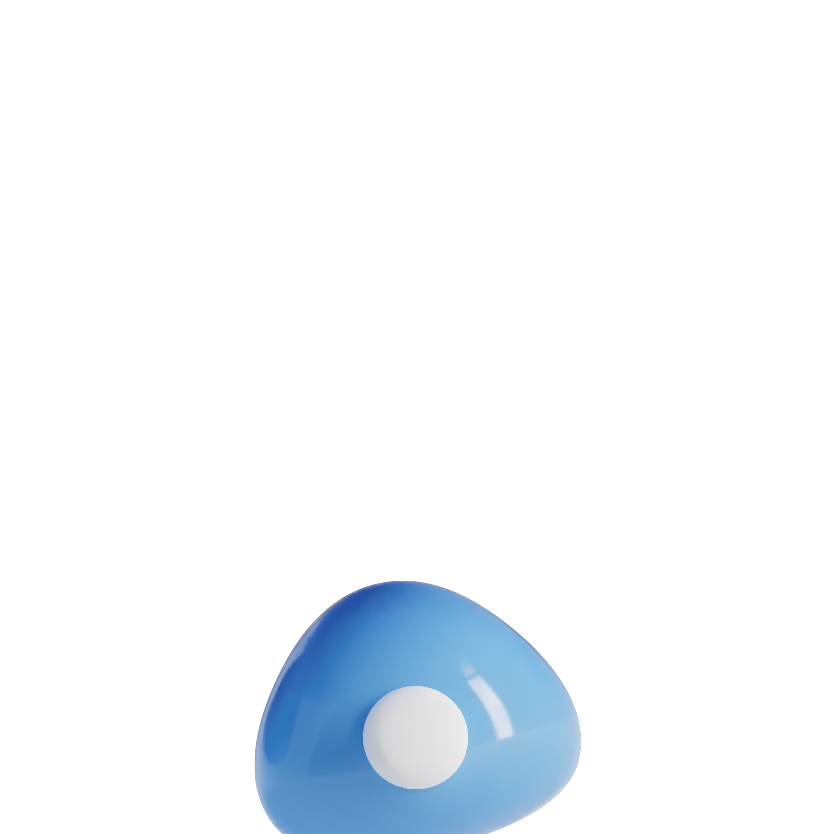
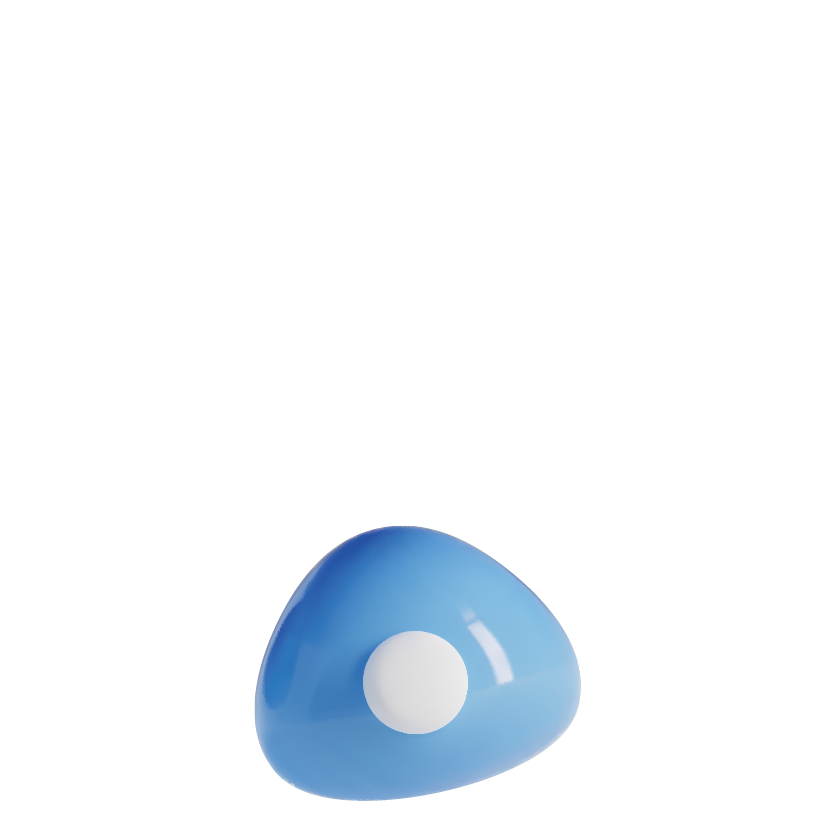
feat(mascot): shift hat 50px up and body/hands 50px down without altering source images

Changed region(s): [[0.2806, 0.6235, 0.717, 1.0]]

diff --git a/src/Components/AI/SheypoorMascot.jsx b/src/Components/AI/SheypoorMascot.jsx
@@ -217,12 +217,12 @@ export default function SheypoorMascot({ onClick, isOpen, isProcessing }) {
         )}
 
         {/* Mascot Body Canvas Container (84px width, maintaining aspect ratio) */}
-        <div className="relative w-20 h-20 tablet:w-22 tablet:h-22 select-none">
-          {/* Base Layer: Body */}
+        <div className="relative w-20 h-20 tablet:w-22 tablet:h-22 select-none overflow-visible">
+          {/* Base Layer: Body (shifted 50px / 6% down) */}
           <motion.img
             src="/AI-MASCAT/body.png"
             alt="Body"
-            className="absolute inset-0 w-full h-full object-contain pointer-events-none drop-shadow-md origin-[50%_65%]"
+            className="absolute inset-0 w-full h-full object-contain pointer-events-none drop-shadow-md origin-[50%_65%] translate-y-[6%]"
             animate={{
               y: isProcessing ? [0, -2, 0] : [0, -3, 0],
             }}
@@ -233,11 +233,11 @@ export default function SheypoorMascot({ onClick, isOpen, isProcessing }) {
             }}
           />
 
-          {/* Left Hand Layer (Viewer's Left) */}
+          {/* Left Hand Layer (Viewer's Left - shifted 50px / 6% down) */}
           <motion.img
             src="/AI-MASCAT/leftHand.png"
             alt="Left Hand"
-            className="absolute inset-0 w-full h-full object-contain pointer-events-none drop-shadow-sm origin-[20%_60%]"
+            className="absolute inset-0 w-full h-full object-contain pointer-events-none drop-shadow-sm origin-[20%_60%] translate-y-[6%]"
             animate={{
               y: isProcessing ? [-2, -6, -2] : isHovered ? [-1, 2, -1] : [0, -3, 0],
               rotate: isProcessing ? [0, -10, 0] : isHovered ? [0, -6, 0] : [0, 2, 0],
@@ -249,11 +249,11 @@ export default function SheypoorMascot({ onClick, isOpen, isProcessing }) {
             }}
           />
 
-          {/* Right Hand Layer (Viewer's Right - Waving Hand!) */}
+          {/* Right Hand Layer (Viewer's Right - Waving Hand - shifted 50px / 6% down) */}
           <motion.img
             src="/AI-MASCAT/rightHand.png"
             alt="Right Hand"
-            className="absolute inset-0 w-full h-full object-contain pointer-events-none drop-shadow-sm origin-[80%_60%]"
+            className="absolute inset-0 w-full h-full object-contain pointer-events-none drop-shadow-sm origin-[80%_60%] translate-y-[6%]"
             animate={{
               y: isProcessing
                 ? [-3, -8, -3] // Raising hand towards chin while thinking
@@ -343,11 +343,11 @@ export default function SheypoorMascot({ onClick, isOpen, isProcessing }) {
             transition={{ type: "spring", stiffness: 160, damping: 14 }}
           />
 
-          {/* Top Antenna / Hat (Proportioned on canvas) */}
+          {/* Top Antenna / Hat (Proportioned on canvas - shifted 50px / 6% up) */}
           <motion.img
             src="/AI-MASCAT/hat.png"
             alt="Hat"
-            className="absolute inset-0 w-full h-full object-contain pointer-events-none drop-shadow-sm origin-[50%_20%]"
+            className="absolute inset-0 w-full h-full object-contain pointer-events-none drop-shadow-sm origin-[50%_20%] -translate-y-[6%]"
             animate={{
               rotate: isProcessing
                 ? [-10, 10, -10] // Wobbling antenna when thinking!

diff --git a/src/pages/MascotLab.jsx b/src/pages/MascotLab.jsx
@@ -275,14 +275,14 @@ const mascotConfig = ${JSON.stringify(tweaks, null, 2)};`;
                 </>
               )}
 
-              {/* 1. Body Base Layer */}
+              {/* 1. Body Base Layer (shifted 50px / 6% down) */}
               {visibleLayers.body && (
                 <motion.img
                   src="/AI-MASCAT/body.png"
                   alt="Body"
-                  className="absolute inset-0 w-full h-full object-contain pointer-events-none drop-shadow-lg origin-[50%_65%]"
+                  className="absolute inset-0 w-full h-full object-contain pointer-events-none drop-shadow-lg origin-[50%_65%] translate-y-[6%]"
                   style={{
-                    transform: `translate(${tweaks.bodyLeft}%, ${tweaks.bodyTop}%) scale(${tweaks.bodyScale})`,
+                    transform: `translate(${tweaks.bodyLeft}%, calc(${tweaks.bodyTop}% + 6%)) scale(${tweaks.bodyScale})`,
                   }}
                   animate={{
                     y:
@@ -300,12 +300,12 @@ const mascotConfig = ${JSON.stringify(tweaks, null, 2)};`;
                 />
               )}
 
-              {/* 2. Left Hand Layer */}
+              {/* 2. Left Hand Layer (shifted 50px / 6% down) */}
               {visibleLayers.leftHand && (
                 <motion.img
                   src="/AI-MASCAT/leftHand.png"
                   alt="Left Hand"
-                  className="absolute inset-0 w-full h-full object-contain pointer-events-none drop-shadow-md origin-[25%_60%]"
+                  className="absolute inset-0 w-full h-full object-contain pointer-events-none drop-shadow-md origin-[25%_60%] translate-y-[6%]"
                   animate={{
                     y:
                       activeVariant === "thinking"
@@ -328,12 +328,12 @@ const mascotConfig = ${JSON.stringify(tweaks, null, 2)};`;
                 />
               )}
 
-              {/* 3. Right Hand Layer */}
+              {/* 3. Right Hand Layer (shifted 50px / 6% down) */}
               {visibleLayers.rightHand && (
                 <motion.img
                   src="/AI-MASCAT/rightHand.png"
                   alt="Right Hand"
-                  className="absolute inset-0 w-full h-full object-contain pointer-events-none drop-shadow-md origin-[75%_65%]"
+                  className="absolute inset-0 w-full h-full object-contain pointer-events-none drop-shadow-md origin-[75%_65%] translate-y-[6%]"
                   animate={{
                     y:
                       activeVariant === "thinking"
@@ -466,12 +466,12 @@ const mascotConfig = ${JSON.stringify(tweaks, null, 2)};`;
                 />
               )}
 
-              {/* 9. Top Antenna / Hat */}
+              {/* 9. Top Antenna / Hat (shifted 50px / 6% up) */}
               {visibleLayers.hat && (
                 <motion.img
                   src="/AI-MASCAT/hat.png"
                   alt="Hat"
-                  className="absolute inset-0 w-full h-full object-contain pointer-events-none drop-shadow-md origin-[50%_20%]"
+                  className="absolute inset-0 w-full h-full object-contain pointer-events-none drop-shadow-md origin-[50%_20%] -translate-y-[6%]"
                   animate={{
                     rotate:
                       activeVariant === "thinking"
